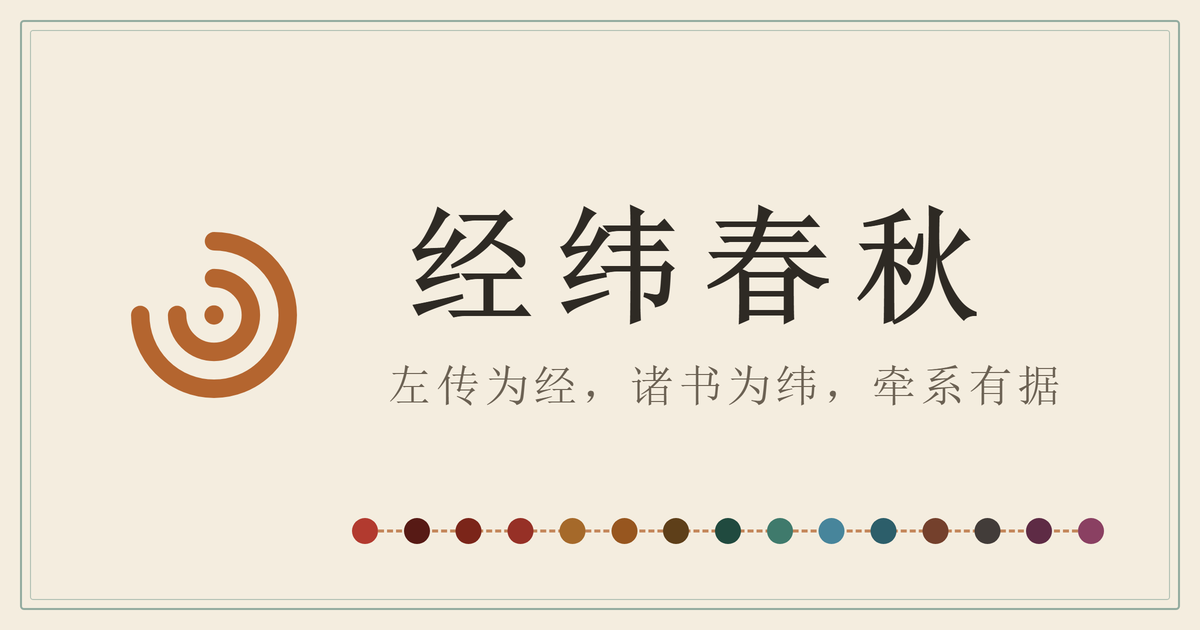
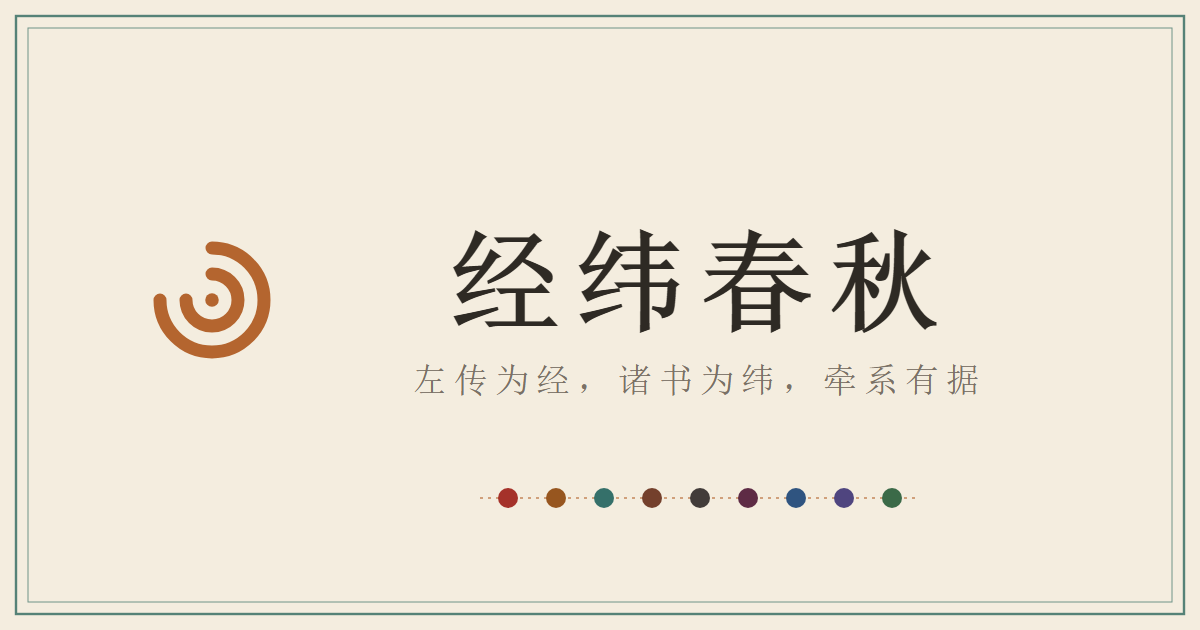
feat(assets): r24a 批次四——og 分享协议图重出（色带改九国色）（Vision）
site/assets/og/og-card.png 重出（1200×630）。旧图生成于 2026-07-20（r15 期间），
其后历 r19b/r21/r22 多轮色板扩充与 r22 分享卡改制，色带仍是 15 枚旧个人色签，
与站内实况早已脱节——此即 qi_palette_expansion.md §8 第 5 条上报的问题，本轮清账。

- 构图沿用旧版：绢帛底＋青铜双线框＋左侧涡纹徽记（与 favicon/站头/分享卡同一形）
  ＋站名大字＋副题（现行版「左传为经，诸书为纬，牵系有据」）＋下方一行色点
- 唯一实质改动：色带 15 枚个人色签 → 9 枚国色圆点，同源同序于 STATE_FAMILY_VAR
  （齐/鲁/郑/晋/秦/楚/卫/宋/陈），与分享卡、首页九分区、全景阵营底晕共用一份色序
- 增长源随「国色家族数」而非「主角数」：此后新增主角不需重出此图，
  唯新立一个国色家族才需要

新增生成器 tools/qa/make_og_card.js（可重跑，产物与脚本一并入库）：
- 九色**从 site/styles.css 实读**，不在脚本内另抄一份；读不到即报错退出、
  不静默用兜底色——避免日后改色时两处脱节
- 依赖仅 tools/qa 内的 Playwright（conventions §9.3 QA 工具链例外），
  站点不引用本脚本，非运行时依赖

design_notes §2.7 补入 §9.3 实测结论全文（几何数据、三条处置、以及
「槽距 12.87 ＜ 徽记 22」这一根本矛盾未解的验收偏差上报）。

diff --git a/tools/qa/make_og_card.js b/tools/qa/make_og_card.js
@@ -1,0 +1,80 @@
+"use strict";
+/* og 分享协议图生成器（r24a 重出，design_notes §4.1）
+ *
+ * 产物：site/assets/og/og-card.png（1200×630，预生成静态资源，conventions §9.2 例外清单第 1 项）。
+ * 依赖：仅 tools/qa 内的 Playwright（§9.3 QA 工具链例外，非站点运行时依赖）；站点不引用本脚本。
+ * 跑法：node tools/qa/make_og_card.js
+ *
+ * 构图沿用旧版（r15 立）：绢帛底＋青铜双线框＋左侧涡纹徽记＋站名大字＋副题＋下方一行色点。
+ * 本轮唯一实质改动：色带由 15 枚旧个人色签改为 9 枚国色圆点，与分享卡 §5.7、首页九分区、
+ * 关系全景阵营底晕同源同序（齐/鲁/郑/晋/秦/楚/卫/宋/陈）。增长源随「国色家族数」而非「主角数」，
+ * 故此后新增主角不需重出此图，唯新立一个国色家族才需要。
+ *
+ * 色值必须与 site/styles.css :root 的九个 --state-* 一致；本脚本从 styles.css 实读，不另抄一份，
+ * 避免日后改色时两处脱节（读不到即报错退出，不静默用兜底色）。
+ */
+const fs = require("fs"), path = require("path");
+const ROOT = path.resolve(__dirname, "..", "..");
+const CSS = path.join(ROOT, "site", "styles.css");
+const OUT = path.join(ROOT, "site", "assets", "og", "og-card.png");
+
+const STATES = [["齐", "--state-qi"], ["鲁", "--state-lu"], ["郑", "--state-zheng"],
+                ["晋", "--state-jin"], ["秦", "--state-qin"], ["楚", "--state-chu"],
+                ["卫", "--state-wei"], ["宋", "--state-song"], ["陈", "--state-chen"]];
+
+const css = fs.readFileSync(CSS, "utf8");
+const colors = STATES.map(([name, v]) => {
+  const m = css.match(new RegExp(v.replace(/-/g, "\\-") + "\\s*:\\s*(#[0-9A-Fa-f]{6})"));
+  if (!m) { console.error("styles.css 中读不到 " + v + "，中止（不使用兜底色）"); process.exit(1); }
+  return { name, hex: m[1] };
+});
+console.log("九国色（实读自 styles.css）：" + colors.map(c => c.name + c.hex).join("  "));
+
+const dotR = 10, gap = 48, bandCx = 700, bandY = 498; // 色带与站名同轴（x=700）
+const bandW = (colors.length - 1) * gap;
+const dots = colors.map((c, i) => {
+  const cx = bandCx - bandW / 2 + i * gap;
+  return `<circle cx="${cx}" cy="${bandY}" r="${dotR}" fill="${c.hex}"/>`;
+}).join("");
+// 色点之间的虚线牵引（沿用旧版观感：一串「印珠」由一道细虚线串起）
+const rule = `<line x1="${bandCx - bandW / 2 - 28}" y1="${bandY}" x2="${bandCx + bandW / 2 + 28}" y2="${bandY}"
+  stroke="#B4652F" stroke-width="1.6" stroke-dasharray="3 5" opacity="0.75"/>`;
+
+const html = `<!doctype html><meta charset="utf-8">
+<style>
+  html,body{margin:0;padding:0;background:#F4EDDF;}
+  body{width:1200px;height:630px;overflow:hidden;}
+  .serif{font-family:"Songti SC","Noto Serif CJK SC","STSong","SimSun",serif;}
+</style>
+<svg width="1200" height="630" viewBox="0 0 1200 630" xmlns="http://www.w3.org/2000/svg">
+  <rect width="1200" height="630" fill="#F4EDDF"/>
+  <!-- 青铜双线框 -->
+  <rect x="16" y="16" width="1168" height="598" fill="none" stroke="#44766B" stroke-width="2.4" opacity="0.9"/>
+  <rect x="28" y="28" width="1144" height="574" fill="none" stroke="#44766B" stroke-width="1" opacity="0.75"/>
+  <!-- 涡纹徽记（与 favicon / 站头 / 分享卡同一形：外弧 r20、内弧 r10、心点，顺时针 270°） -->
+  <g transform="translate(212,300) scale(2.6)" fill="none" stroke="#B4652F" stroke-width="5" stroke-linecap="round">
+    <path d="M0 -20A20 20 0 1 1 -20 0"/>
+    <path d="M0 -10A10 10 0 1 1 -10 0"/>
+    <circle cx="0" cy="0" r="2.6" fill="#B4652F" stroke="none"/>
+  </g>
+  <!-- 站名与副题 -->
+  <text class="serif" x="700" y="322" text-anchor="middle" font-size="112" font-weight="700"
+        fill="#2E2A24" letter-spacing="12">经纬春秋</text>
+  <text class="serif" x="700" y="392" text-anchor="middle" font-size="34"
+        fill="#7A7166" letter-spacing="7">左传为经，诸书为纬，牵系有据</text>
+  <!-- 九枚国色圆点（同源同序于 STATE_FAMILY_VAR；增长源＝国色家族数，非主角数） -->
+  ${rule}${dots}
+</svg>`;
+
+(async () => {
+  const pw = require("playwright");
+  const b = await pw.chromium.launch();
+  const p = await b.newPage({ viewport: { width: 1200, height: 630 }, deviceScaleFactor: 1 });
+  await p.setContent(html, { waitUntil: "load" });
+  await p.waitForTimeout(400);
+  fs.mkdirSync(path.dirname(OUT), { recursive: true });
+  await p.screenshot({ path: OUT, clip: { x: 0, y: 0, width: 1200, height: 630 } });
+  await b.close();
+  const st = fs.statSync(OUT);
+  console.log("已写出 " + path.relative(ROOT, OUT) + "（1200×630，" + st.size + " 字节）");
+})();

diff --git a/docs/design/design_notes.md b/docs/design/design_notes.md
@@ -211,11 +211,24 @@ v2.0 新增一徽记（子产上线，第 27 主角，随 r23b 入库、r24a 前
 
 ### 2.7 §9.3 硬性项：27 人级全景图节点徽记可辨性（v2.0 实测）
 
-国色制下同国节点同色，逐人区分完全落到 30px 节点内嵌徽记，故本条自「建议」升为**硬性验收项**。实测结论与线宽处置见 delivery_vision_r24a §四；本节记结论与规约：
+国色制下同国节点同色，逐人区分完全落到节点内嵌徽记，故本条自「建议」升为**硬性验收项**。**本轮跑了，且跑出了问题**，实测记录如下。
 
-- **徽记 SVG 源文件一律 `viewBox="0 0 48 48"`、`stroke-width="2"`**，与旧廿六枚同语言，本轮**新增子产一枚照此**——源文件线宽不因呈现尺寸而改，改的只是呈现端。
-- **呈现端上调一档由截图实测裁定**（尺寸与线宽的实测对照表、上调前后截图见 delivery_vision_r24a §四）。判据是「27 人全景图 1440 宽下，同国相邻节点能否只凭徽记分辨」，**不以观感臆断代替实测**。
+**实测几何（r24a，1440 宽）**：环上 **123 人**（27 主角＋96 配角），环半径 R=252，相邻槽距（弦长）**12.87**，主角节点 r=15 即**直径 30**。
+
+> **槽距 12.87 ＜ 节点直径 30 —— 主角盘面本就相互叠压。** 这是 123 人同环的既有密度问题（r23b 即如此，非国色制引入），但**国色制使它显影**：旧制同族五阶深浅不同，盘缘尚能靠明暗差看出；新制同国一色，一段弧遂并作一块无分界的色团。与 r23b 同图的对照截图（同槽距、同 r，仅填充色由五阶变一色）见 delivery_vision_r24a §四。
+
+**处置三条（皆由截图实测得出，非观感臆断）**：
+
+1. **徽记提到独立顶层**（`badgeTop`）。旧法把徽记塞进各节点自己的 `<g>`，而 `<g>` 按环序依次追加——**后一节点的盘面正好盖住前一节点的徽记**，同弧六人只有最后一枚徽记露得出来。提到顶层后 27 枚徽记一律叠在所有盘面之上。这是本轮收效最大的一条，且属纯缺陷修复、无观感取舍。
+2. **主角节点的绢帛分隔环 2 → 3.4**（`PANO_RING_W`）。绢帛色描边是**与填充色无关**的分隔线，加宽它即可在同色相邻处重新划出盘缘——这才是「同国同色」这一症状的对症之药。
+3. **徽记呈现尺寸 20 → 22、呈现线宽 2 → 2.6**（`PANO_BADGE` / `PANO_BADGE_SW`，以 CSS 覆盖 SVG 呈现属性）。即任务书所说的「上调一档」。
+
+**规约**：
+
+- **徽记 SVG 源文件一律 `viewBox="0 0 48 48"`、`stroke-width="2"`**，与旧廿六枚同语言，本轮新增子产一枚照此。**源文件线宽不因呈现尺寸而改，改的只是呈现端**——呈现参数集中在 `PANO_*` 三个常量，改一处即全景同步。
 - 此后凡新增国色家族或主角批次，全景图截图复验为 conventions §9.3 范围内的必做项。
+
+**⚠ 验收偏差上报（未彻底解决，候裁定）**：上述三条把「同弧只有一枚徽记可见」改善为「27 枚皆可见、盘缘可分」，但**槽距 12.87 ＜ 徽记 22 的根本矛盾仍在**——同国相邻两枚徽记仍互相压边，「只凭徽记分辨」在最挤的齐（6 人）、郑（5 人）两弧上只能说勉强。彻底解决须改环布局（加大 R 并扩 viewBox、或按主角/配角分配不等角槽、或主角节点径向错排成双环），三者皆属布局重做、超出「线宽/尺寸上调一档」的授权范围，**故本轮不擅自动手**，costed 选项列于 delivery_vision_r24a §四候领队裁定。
 
 ## 3. 排版
 
